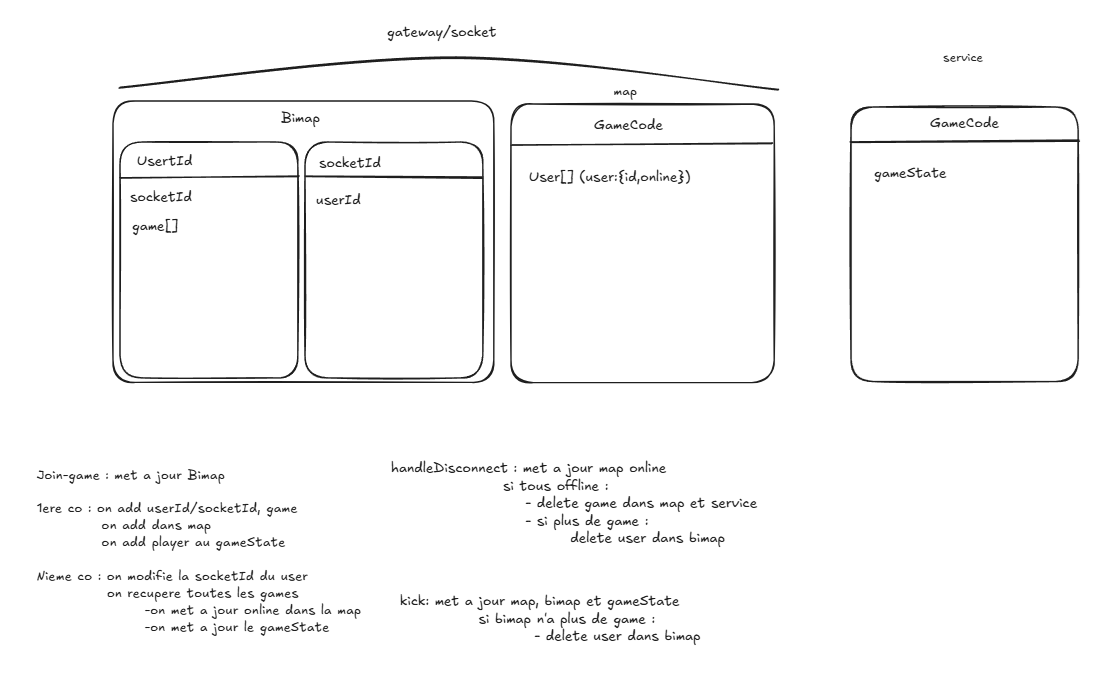
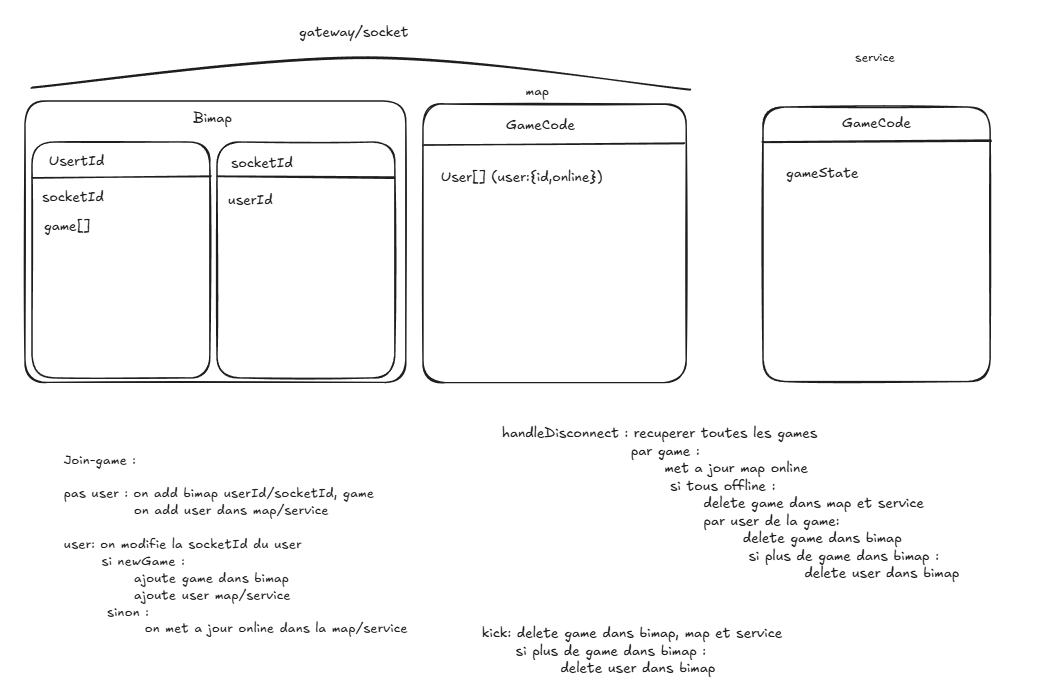
adding bimap to handle socket memory

diff --git a/backend/src/utils/BiMapUserSocket.ts b/backend/src/utils/BiMapUserSocket.ts
@@ -1,0 +1,62 @@
+class BiMapUserSocket {
+  private userMap = new Map<string, { socketId: string; games: string[] }>();
+  private socketMap = new Map<string, string>();
+
+  set(userId: string, socketId: string, game: string) {
+    this.userMap.set(userId, { socketId, games: [game] });
+    this.socketMap.set(socketId, userId);
+  }
+
+  hasUser(userId: string): boolean {
+    return this.userMap.has(userId);
+  }
+
+  hasSocket(socketId: string): boolean {
+    return this.socketMap.has(socketId);
+  }
+
+  getFromUser(
+    userId: string,
+  ): { socketId: string; games: string[] } | undefined {
+    return this.userMap.get(userId);
+  }
+
+  getFromSocket(socketId: string): string {
+    return this.socketMap.get(socketId);
+  }
+
+  setSocketFromUser(userId: string, socketId: string): void {
+    const userVal = this.userMap.get(userId);
+    this.socketMap.delete(userVal.socketId);
+    this.socketMap.set(socketId, userId);
+    this.userMap.set(userId, { ...userVal, socketId });
+  }
+
+  addGameFromUser(userId: string, game: string): void {
+    this.userMap.get(userId).games.push(game);
+  }
+
+  deleteGameFromUser(userId: string, game: string): void {
+    const newGames = this.userMap.get(userId).games.filter((g) => g != game);
+    const socketId = this.userMap.get(userId).socketId;
+    if (newGames.length == 0) {
+      this.userMap.delete(userId);
+      this.socketMap.delete(socketId);
+    } else {
+      this.userMap.set(userId, { socketId, games: newGames });
+    }
+  }
+
+  hasGameFromUser(userId: string, game: string): boolean {
+    return this.userMap.get(userId).games.includes(game);
+  }
+
+  getGameFromUser(userId: string): string[] {
+    return this.userMap.get(userId).games;
+  }
+
+  clear() {
+    this.userMap.clear();
+    this.socketMap.clear();
+  }
+}
